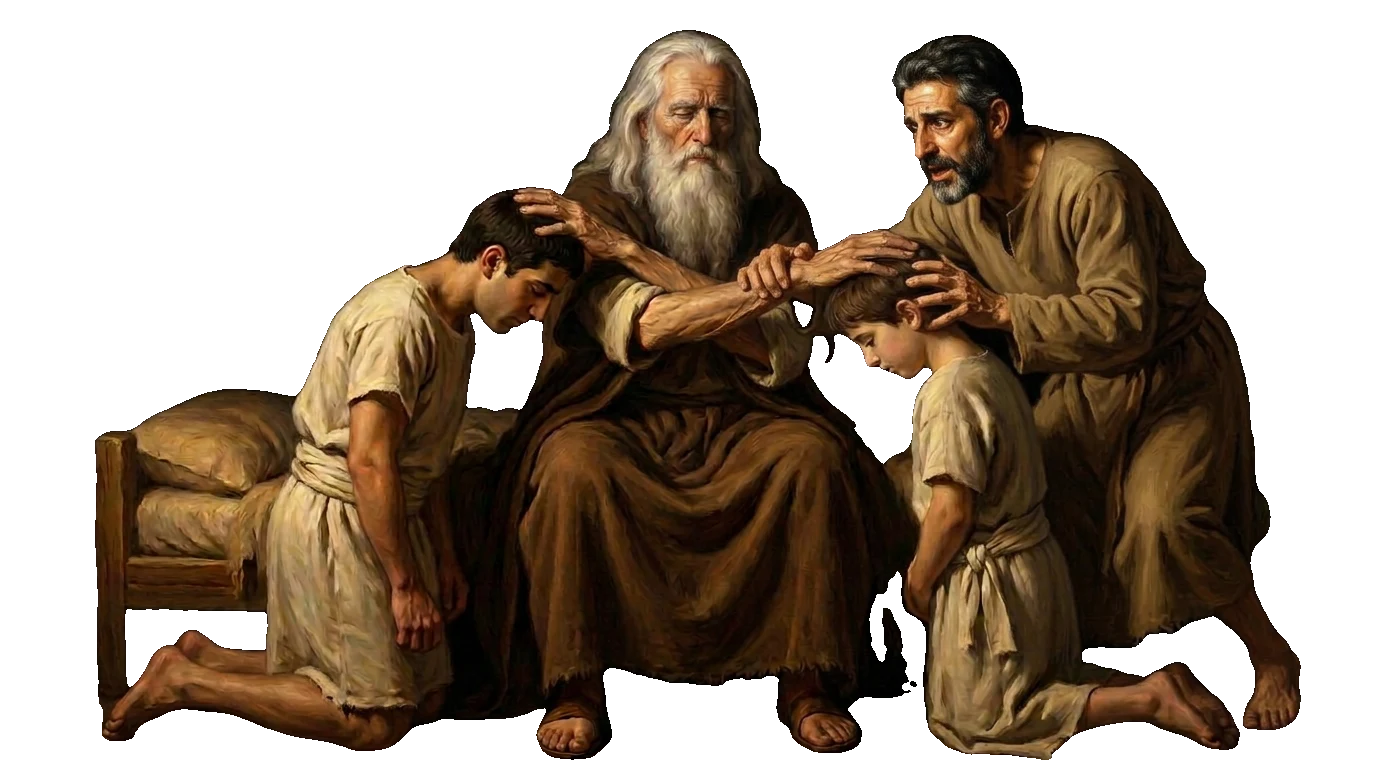
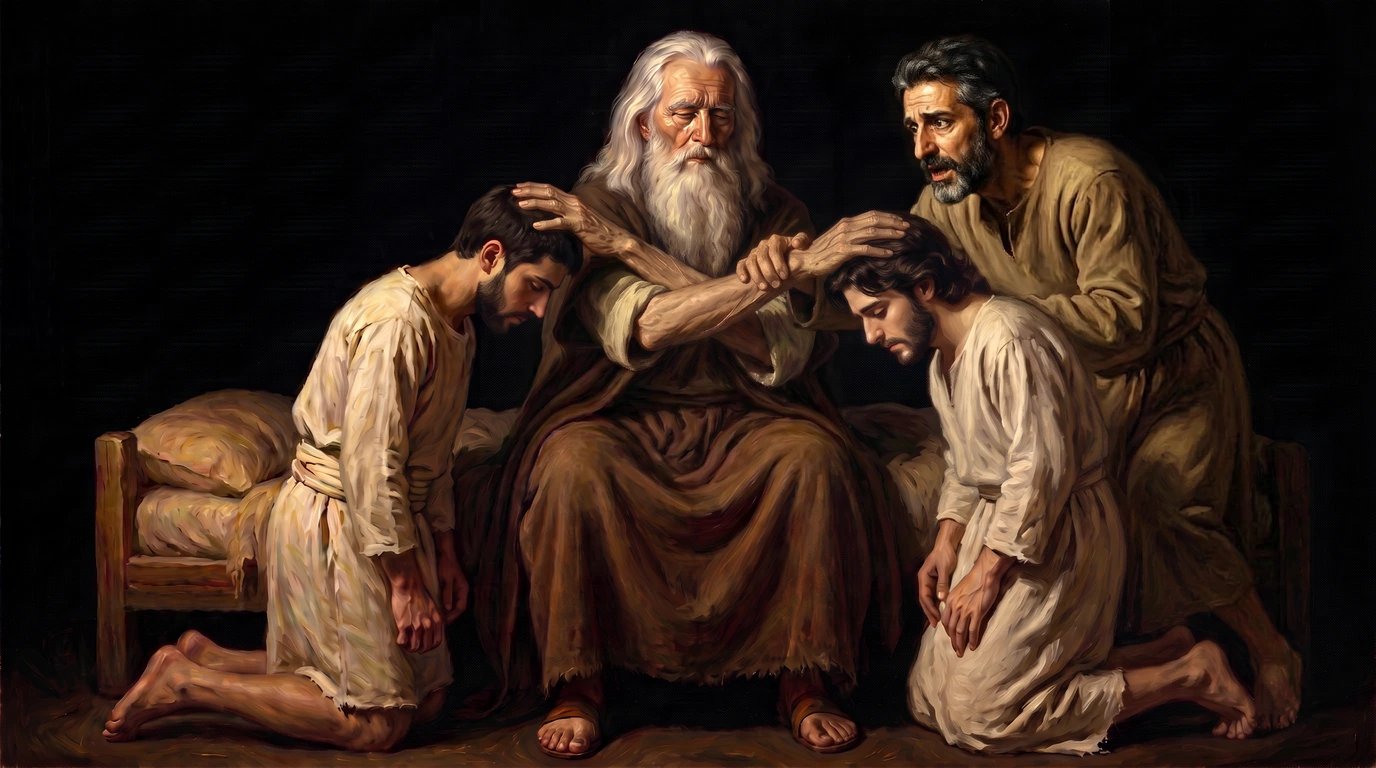
09: adult Manasseh/Ephraim (sheets + 3 scenes), Jacob speaking, Abel offering (no fire), Gideon to match; continuous grab shot
Claude-Session: https://claude.ai/code/session_016t4pfnS8RRa6Q4vN1upjTj

diff --git a/_handoff09/b09p/scenes09p.js b/_handoff09/b09p/scenes09p.js
@@ -222,30 +222,30 @@ S(2.65,11.95,(v)=>{warm(960,560,820,.8);const tR=C('right hand is meant',5)+.1,t
   if(v<5.35)kx('Two boys are brought to him|for a *blessing*.','two boys are brought',2,960,165,64,v);
   else kin('The *right* *hand* is meant|for the *firstborn*.','the right hand is meant',5,960,165,64,v);
   const [rx,ry]=P(588,432);ringA(rx,ry,80,54,ap(v,tR,.5)*(1-sm(7.4,7.9,v)),sm(tR,tR+1,v));
-  tagAt('FIRSTBORN',300,440,360,300,ap(v,tF,.6),false);tagAt('YOUNGER',1620,440,1000,330,ap(v,tY,.6),true);});
+  tagAt('FIRSTBORN',300,440,520,250,ap(v,tF,.6),false);tagAt('YOUNGER',1620,440,910,240,ap(v,tY,.6),true);});
 const RH0=[588,432],LH0=[806,432],OB=[520,250],YB=[912,268];
 // ---------- 0:12 · "But Jacob crosses his arms, so his right hand comes down on the younger boy's head" ----------
 S(11.95,17.15,(v)=>{const u=camE((v-12.05)/5.2);const z=lerp(.832,.875,u),cxI=lerp(688,716,u);warm(960,560,820,.8);bed('02_crossing',v,z,cxI);
   const tRH=C('so his right hand comes',13)+.25,tYg=C('younger boys head',15);
-  if(v>tYg){const [yx,yy]=P(980,420);warm(yx,yy,420,1.3*sm(tYg,tYg+.6,v));}
+  if(v>tYg){const [yx,yy]=P(930,300);warm(yx,yy,420,1.3*sm(tYg,tYg+.6,v));}
   X.save();const g=X.createLinearGradient(0,0,0,300);g.addColorStop(0,'rgba(5,4,3,.9)');g.addColorStop(1,'rgba(5,4,3,0)');X.fillStyle=g;X.fillRect(0,0,W,330);X.restore();
   kin('But Jacob *crosses* his arms,','but jacob crosses his arms',11,960,130,72,v);lx('so his right hand comes down on the *younger* boy’s head.',960,215,66,v,14.0);
-  tagAt('FIRSTBORN',300,440,360,300,1,false);tagAt('YOUNGER',1620,440,1000,340,1+.2*sm(tYg,tYg+.4,v),true);
-  const [hx,hy]=P(872,248);{const [sx,sy]=P(600,318);ink(bez([sx,sy],[(sx+hx)/2,sy-210],[hx-10,hy-58]),eio(sm(tRH,tRH+1.1,v)),1,{arrow:true,w:6,head:30});}});
+  tagAt('FIRSTBORN',300,440,520,250,1,false);tagAt('YOUNGER',1620,440,930,260,1+.2*sm(tYg,tYg+.4,v),true);
+  const [hx,hy]=P(860,190);{const [sx,sy]=P(600,330);ink(bez([sx,sy],[(sx+hx)/2,sy-210],[hx-10,hy-58]),eio(sm(tRH,tRH+1.1,v)),1,{arrow:true,w:6,head:30});}});
 // ---------- 0:17 · the boys' father
-S(17.15,19.75,(v)=>{const u=camE((v-17.25)/2.65);{const s2=H/768*.5;draw('02_crossing',-70+10*u,1060-759*s2,s2,.9);}const sc=H/768*.7*(1+.05*u);const [ox,oy]=at(817,90,1430-40*u,420,sc);warm(1400,560,600,1);draw('b_joseph',ox,oy,sc);bokeh(v,1,7,6);
-  cap('JOSEPH, THE BOYS’ FATHER',1330,150,52,ap(v,17.3,.4),true);lx('Jacob’s own son,',1330,250,76,v,18.6);});
-// ---------- 0:20 · he grabs Jacob's hand
-S(19.75,21.55,(v)=>{const u=eio(clamp((v-19.55)/2.95));const z=lerp(.95,1.55,u);const sc=H/768*z;const [ox,oy]=at(790,262,960,lerp(600,540,u),sc);warm(960,560,700,.8);draw('02b_grabs',ox,oy,sc);bokeh(v,1,43,5);
-  {const [gx,gy]=P(790,255);orb(gx,gy,180,.28*sm(20.3,21,v));}
-  X.save();const g=X.createRadialGradient(960,540,480,960,540,1150);g.addColorStop(0,'rgba(5,4,3,0)');g.addColorStop(1,'rgba(5,4,3,.75)');X.fillStyle=g;X.fillRect(0,0,W,H);
-  const g2=X.createLinearGradient(0,820,0,1080);g2.addColorStop(0,'rgba(5,4,3,0)');g2.addColorStop(1,'rgba(5,4,3,.9)');X.fillStyle=g2;X.fillRect(0,820,W,260);X.restore();
-  lx('He grabs Jacob’s hand to move it.',960,950,70,v,19.9);});
-// ---------- 0:22 · "Not so, father, this one is the firstborn"
-S(21.55,24.75,(v)=>{const z=lerp(1.25,1.31,camE((v-22.3)/2.6));const sc=H/768*z;const [ox,oy]=at(817,90,1450,400,sc);warm(1450,420,700,1);draw('b_joseph',ox,oy,sc);blackL(860,1200);bokeh(v,1,47,6);
+S(17.15,24.75,(v)=>{const k1=eio(sm(19.5,20.9,v)),k2=eio(sm(21.45,22.7,v));
+  const A=[688,384,960,640,H/768*.85],B=[770,241,960,560,H/768*1.55],Cc=[936,110,1380,430,H/768*1.8];
+  const q=A.map((a,n)=>lerp(lerp(a,B[n],k1),Cc[n],k2));const s=q[4]*(1+.015*(v-17.15)/7.6);const [ox,oy]=at(q[0],q[1],q[2],q[3],s);
+  warm(960,560,760,.8);draw('02b_grabs',ox,oy,s);bokeh(v,1,43,5);
+  {const [gx,gy]=P(770,241);orb(gx,gy,180,.28*sm(20.3,21,v)*(1-k2));}
+  X.save();const g=X.createRadialGradient(960,540,480,960,540,1150);g.addColorStop(0,'rgba(5,4,3,0)');g.addColorStop(1,'rgba(5,4,3,.7)');X.fillStyle=g;X.fillRect(0,0,W,H);X.restore();
+  if(k2>0){X.save();X.globalAlpha=k2;blackL(860,1200);X.restore();}
+  if(v<19.45){cap('JOSEPH, THE BOYS’ FATHER',960,78,46,ap(v,17.3,.4),true);ln('Jacob’s own son,',960,148,62,v,18.6);}
   vSide(ap(v,21.7,.35),600,'GENESIS 48:18','לֹא־כֵן אָבִי כִּי־זֶה הַבְּכֹר',['הַבְּכֹר'],[[['“Not so, father,',0]],[['this one is the ',0],['firstborn',1],['.”',0]]],{cy:540,hs:100,es:66});});
+// ---------- 0:20 · he grabs Jacob's hand
+// ---------- 0:22 · "Not so, father, this one is the firstborn"
 // ---------- 0:25 · "and Jacob says, 'I know, my son, I know'" ----------
-S(24.75,28.65,(v)=>{const k2=C('i know',27);const z=1.04+.06*eio(sm(24.9,28.75,v))+.06*eio(sm(k2,k2+1,v));pic('01_jacob_boys',v,24.9,28.8,{side:'L',tx:560,fx:.38,z:.95,push:.06});
+S(24.75,28.65,(v)=>{const k2=C('i know',27);const z=1.04+.06*eio(sm(24.9,28.75,v))+.06*eio(sm(k2,k2+1,v));pic('01_jacob_boys',v,24.9,28.8,{side:'L',tx:540,fx:.3,z:.95,push:.06});
   
   vSide(ap(v,25.1,.3),1380,'GENESIS 48:19','יָדַעְתִּי בְנִי יָדַעְתִּי',['יָדַעְתִּי'],[[['“',0],['I know',1],[', my son,',0]],[['I know',1],['.”',0]]],{hs:112,es:70});});
 // ---------- 0:29–0:39 · the ladder builds across two paintings ----------
@@ -280,12 +280,12 @@ S(47.25,53.15,(v)=>{exBG(v);campRing(v,1300,560,470,230,sm(49.5,50.6,v),ap(v,47.
   cap('JUDGES 7',400,300,44,ap(v,47.4,.4),true,'8px');bigNum('300',400,470,ap(v,48.5,.4),200);
   ln('not one of them',400,710,68,v,50.4);ln('is holding a *sword*.',400,795,68,v,51.7);});
 // ---------- 0:53 · the first younger brother doesn't survive (full painting)
-S(53.15,60.05,(v)=>{const u=camE((v-53.25)/6.9);const sc=1.22*(1+.05*u);const [ox,oy]=at(688,420,960,720,sc);draw('e_offering',ox,oy,sc);{const [hx,hy]=P(830,150);dimAt(hx,hy,230,.5);}bokeh(v,1,29,5);band(1,280);
+S(53.15,60.05,(v)=>{const u=camE((v-53.25)/6.9);const sc=1.22*(1+.05*u);const [ox,oy]=at(688,420,960,720,sc);draw('e_offering',ox,oy,sc);bokeh(v,1,29,5);band(1,280);
   const tA=C('god accepts',55);
   if(v<55.85)kx('The first *younger* brother|doesn’t survive.','the first younger brother',52,960,150,70,v);
   else if(v<58.45)kx('God accepts *Abel’s* offering|instead of Cain’s.','god accepts abels offering',55,960,150,70,v);
   else lx('So out in the field,',960,150,74,v,58.6);
-  tag('ABEL',830,150,ap(v,tA+.3,.5),true,{dx:210,y:430,tick:false});tag('CAIN',372,60,ap(v,C('instead of cains',56)+.2,.5),false,{dx:-170,y:400,tick:false});});
+  tag('ABEL',950,250,ap(v,tA+.3,.5),true,{dx:210,y:430,tick:false});tag('CAIN',231,94,ap(v,C('instead of cains',56)+.2,.5),false,{dx:-170,y:400,tick:false});});
 // ---------- 1:00 · Genesis 4:8 ----------
 S(60.05,63.35,(v)=>{const tR=C('cain rises up',59),tK=C('and kills him',61);
   pic('f_cain_rises',v,60.15,63.6,{side:'L',tx:560,fx:.5,z:.75,push:.06,fade:760});bokeh(v,1,31,5);
@@ -454,7 +454,7 @@ S(267.05,269.35,(v)=>{pic('32_midian_raiders',v,266.5,269.4,{side:'R',tx:1300,pu
 S(269.35,274.15,(v)=>{pic('33_gideon_threshing',v,268.9,274.2,{side:'R',tx:1320,fx:700/1376,z:1.0,push:.08,fade:820});const c=Math.max(540,TC());
   lx('An angel finds him',c,360,64,v,269.5);lx('threshing wheat',c,450,64,v,270.5);lx('inside a winepress',c,535,64,v,271.3);lx('to hide it from Midian.',c,625,64,v,272.4);});
 // 4:34 · "I am the wrong man" (Judges 6:15)
-S(274.15,283.95,(v)=>{pic('35_gideon_me',v,274.15,284,{side:'L',tx:600});const c=TC();
+S(274.15,283.95,(v)=>{pic('35_gideon_me',v,274.15,284,{side:'L',tx:560,fx:.33});const c=TC();
   if(v<276.25){lx('Gideon says',c,450,68,v,274.3);lx('he’s the wrong man:',c,540,68,v,274.8);}
   else verse2(ap(v,276.4,.35),c,560,'JUDGES 6:15',['הִנֵּה אַלְפִּי הַדַּל בִּמְנַשֶּׁה','וְאָנֹכִי הַצָּעִיר בְּבֵית אָבִי'],['אַלְפִּי','הַצָּעִיר'],[[['“My ',0],['clan',1],[' is the poorest',0]],[['in Manasseh,',0]],[['and I am the ',0],['youngest',1]],[['in my father’s house.”',0]]],{hs:76,es:56});});
 // 4:44 · אַלְפִּי my clan → my thousand · הַצָּעִיר the youngest

diff --git a/_handoff09/09_shots/prompts_nov8.md b/_handoff09/09_shots/prompts_nov8.md
@@ -11,3 +11,9 @@ Superseded (not used): ElevenLabs text-only versions of 26, f_cain_rises, b_jose
 
 Prompts: subject → action → gaze target ("their eyes meet; neither looks at the viewer") → plain undyed clothing with closed round necklines → "Dark oil painting, Rembrandt chiaroscuro, warm golden light, near-black background". Full prompt text is in the ElevenLabs flow "ETAP99lc2gpUT76kA4Au" and in the Magnific Personal project.
 Next time: Magnific Nano Banana 2.1 (`imagen-nano-banana-2-1`) at 2K, 65 credits, with the playbook's STYLE block.
+
+## Round 2 (Magnific, Nano Banana 2.1 `imagen-nano-banana-2-1`, 2K, 65 credits each)
+- v3_man_sheet.png / v3_eph_sheet.png: character sheets, Manasseh (~22) and Ephraim (~20). Gen 41:50 + 45:6 + 47:28 put them at 20+ at the blessing.
+- v3_before_v2.png → 00_before; v3_crossing_v2.png → 02_crossing (edit of before_v2 + old crossing as pose ref, first try); v3_grabs_v2.png → 02b_grabs (crossing_v2 + Joseph ref).
+- v3_jacob_iknow.png → 01_jacob_boys slot (Jacob speaking, 0:25); v3_gideon.png → 35_gideon_me (ref: threshing Gideon); v3_offering(_nofire).png → e_offering (ref: Cain/Abel lineup; fire removed by retouch, 150 credits: price retouches with simulate_cost first, Auto picked an expensive model).
+- Round 2 total: 8 × 65 + 150 = 670 credits.
